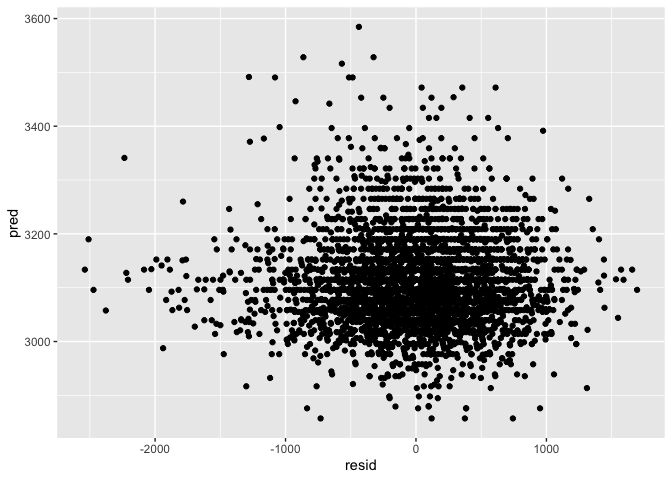
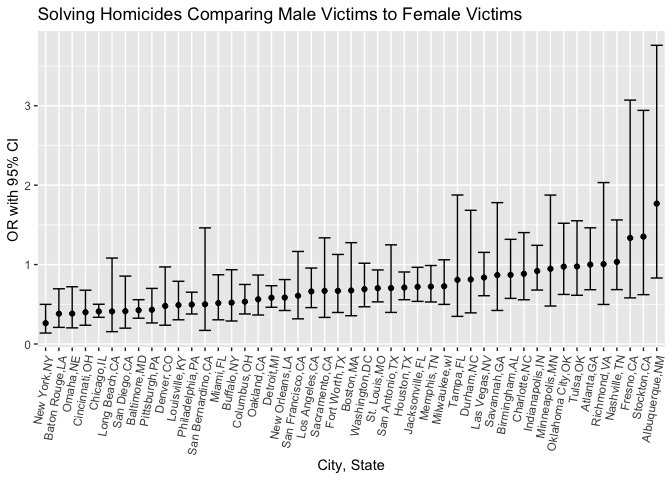
problem 1

diff --git a/hw6.md b/hw6.md
@@ -43,6 +43,62 @@ confidence interval for 𝑟̂ 2 and log(𝛽̂ 0∗𝛽̂ 1) . Note: broom::gla
 helpful for extracting 𝑟̂ 2 from a fitted regression, and broom::tidy()
 (with some additional wrangling) should help in computing log(𝛽̂ 0∗𝛽̂ 1).
 
+``` r
+boot_results <- weather_df |> 
+  modelr::bootstrap(n = 5000) |> 
+  mutate(
+    models = map(strap, ~ lm(tmax ~ tmin, data = .x)),
+    r_squared = map_dbl(models, ~ broom::glance(.x)$r.squared),
+    log_beta0_beta1 = map_dbl(models, function(model) {
+      coefs <- broom::tidy(model)
+      beta0 <- coefs$estimate[coefs$term == "(Intercept)"]
+      beta1 <- coefs$estimate[coefs$term == "tmin"]
+      log(beta0 * beta1)
+    })
+  )
+```
+
+``` r
+r_squared_plot <- ggplot(boot_results, aes(x = r_squared)) +
+  geom_histogram(alpha = 0.7) +
+  labs(title = "R-squared Distribution", x = "R-squared", y = "Frequency")
+
+r_squared_plot
+```
+
+    ## `stat_bin()` using `bins = 30`. Pick better value with `binwidth`.
+
+![](hw6_files/figure-gfm/unnamed-chunk-3-1.png)<!-- -->
+
+``` r
+log_beta_plot <- ggplot(boot_results, aes(x = log_beta0_beta1)) +
+  geom_histogram(alpha = 0.7) +
+  labs(title = "log(beta0 * beta1) Distribution", x = "log(beta0 * beta1)", y = "Frequency")
+
+log_beta_plot
+```
+
+    ## `stat_bin()` using `bins = 30`. Pick better value with `binwidth`.
+
+![](hw6_files/figure-gfm/unnamed-chunk-4-1.png)<!-- -->
+
+``` r
+boot_results_CI = 
+  boot_results |>
+  summarize(
+ci_r_squared = quantile(r_squared, c(0.025, 0.975)), 
+ci_log_beta = quantile(log_beta0_beta1, c(0.025, 0.975))
+)
+```
+
+    ## Warning: Returning more (or less) than 1 row per `summarise()` group was deprecated in
+    ## dplyr 1.1.0.
+    ## ℹ Please use `reframe()` instead.
+    ## ℹ When switching from `summarise()` to `reframe()`, remember that `reframe()`
+    ##   always returns an ungrouped data frame and adjust accordingly.
+    ## Call `lifecycle::last_lifecycle_warnings()` to see where this warning was
+    ## generated.
+
 ## Problem 2
 
 The Washington Post has gathered data on homicides in 50 large U.S.
@@ -213,7 +269,7 @@ Organize cities according to estimated OR, and comment on the plot.
 usa_glm_plot
 ```
 
-![](hw6_files/figure-gfm/unnamed-chunk-7-1.png)<!-- -->
+![](hw6_files/figure-gfm/unnamed-chunk-10-1.png)<!-- -->
 
 New York, NY has the lowest odds of solved homicides for males compared
 to female victims, adjusted for race and age, whereas Aluquerque, NM has
@@ -368,10 +424,11 @@ modelr::add_predictions(baby_birthweight, model_smoken_momage)
 baby_birthweight |> 
   modelr::add_residuals(model_smoken_momage) |>
   modelr::add_predictions(model_smoken_momage) |> 
-  ggplot(aes(x = resid, y = pred)) + geom_point()
+  ggplot(aes(x = resid, y = pred)) + geom_point() + 
+ labs(title = "Model_smoken_momage Residuals Against Fitted Values")
 ```
 
-![](hw6_files/figure-gfm/unnamed-chunk-10-1.png)<!-- -->
+![](hw6_files/figure-gfm/unnamed-chunk-13-1.png)<!-- -->
 
 This plot shows the model_smoken_momage regression plot of model
 residuals against fitted values. The points appear mostly equally
@@ -423,9 +480,9 @@ cv_df |>
     ##  5 male       33      52  3374   129      55 White    40.7 absent        12
     ##  6 female     33      46  2523   126      96 Black    40.3 absent        14
     ##  7 female     33      49  2778   140       5 White    37.4 absent        12
-    ##  8 male       36      52  3515   146      85 White    40.3 absent        11
-    ##  9 male       33      50  3459   169      75 Black    40.7 absent        12
-    ## 10 female     35      51  3317   130      55 White    43.4 absent        13
+    ##  8 male       33      50  3459   169      75 Black    40.7 absent        12
+    ##  9 male       35      51  3459   146      55 White    39.4 absent        12
+    ## 10 female     35      48  3175   158      75 White    39.7 absent        13
     ## # ℹ 3,463 more rows
     ## # ℹ 10 more variables: mheight <dbl>, momage <dbl>, mrace <fct>, parity <dbl>,
     ## #   pnumlbw <dbl>, pnumsga <dbl>, ppbmi <dbl>, ppwt <dbl>, smoken <dbl>,
@@ -457,10 +514,10 @@ cv_res_df |>
     names_prefix = "rmse_"
   ) |> 
   ggplot(aes(x = model, y = rmse)) + 
-  geom_violin()
+  geom_violin() 
 ```
 
-![](hw6_files/figure-gfm/unnamed-chunk-16-1.png)<!-- -->
+![](hw6_files/figure-gfm/unnamed-chunk-19-1.png)<!-- -->
 
 Model one has the highest rmse, whereas model two has the second highest
 rmse and model three has the lowest rmse. Model three, the model using
